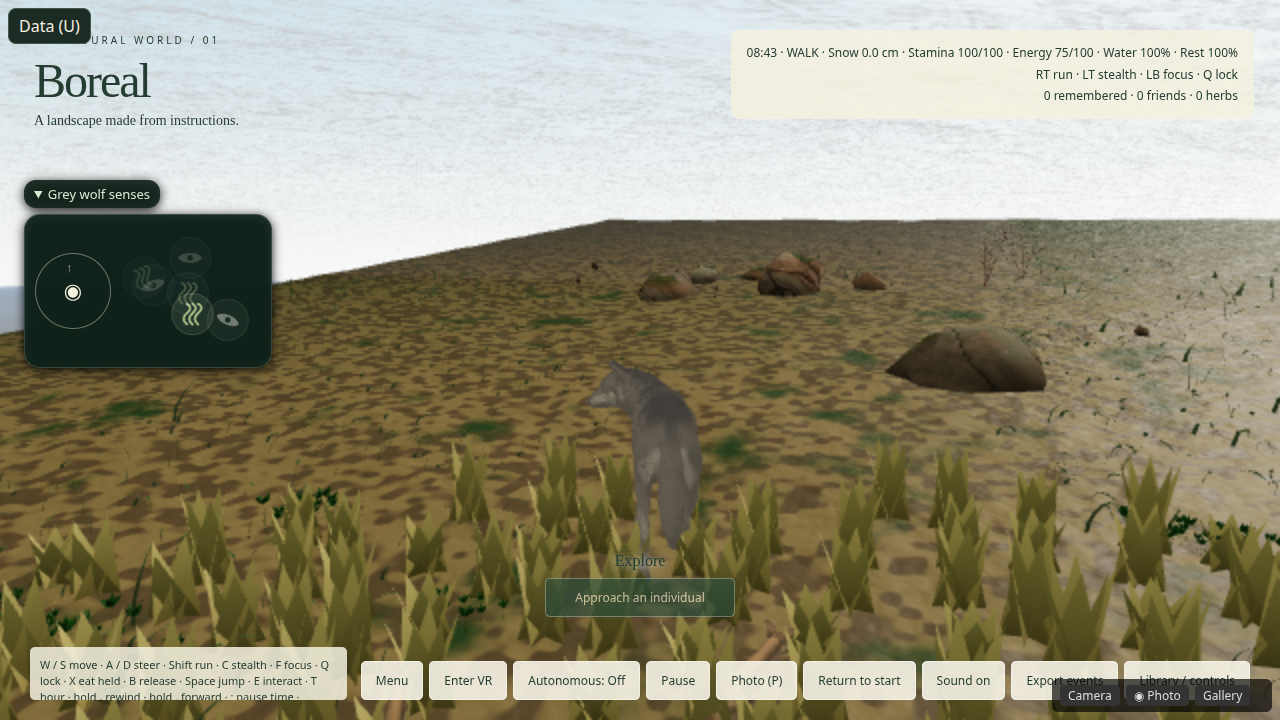
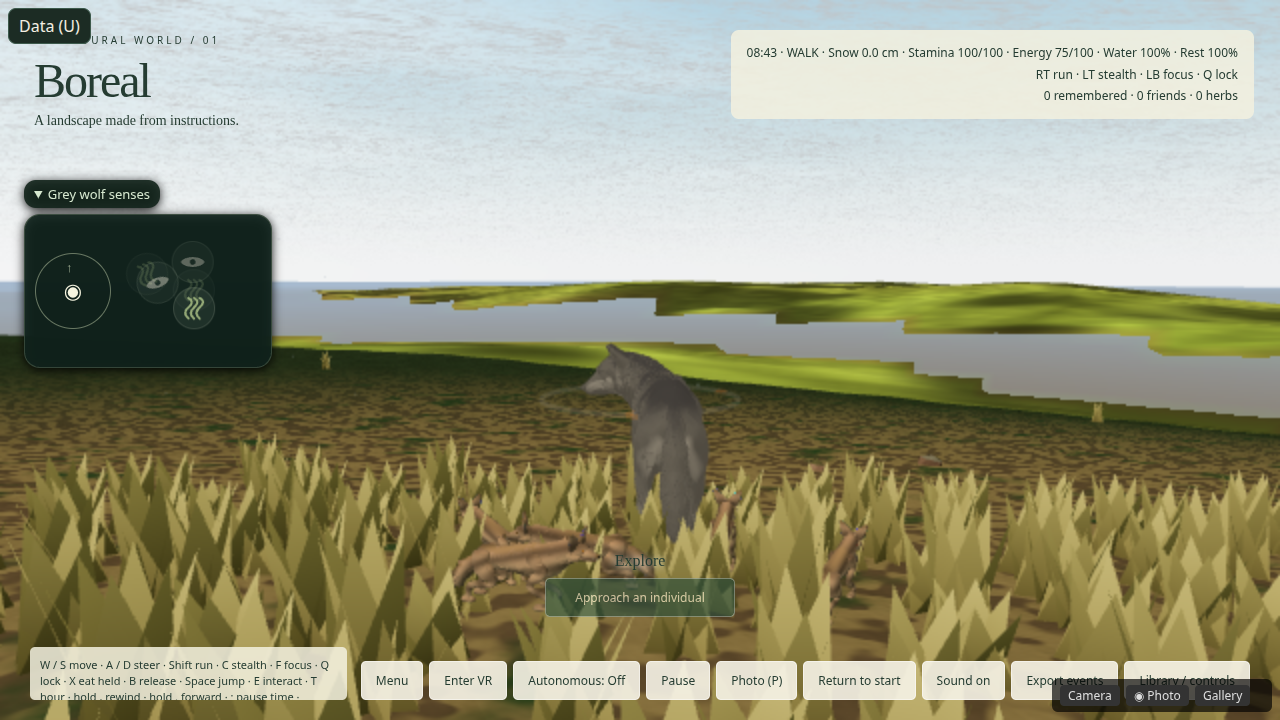
docs: re-shoot the standing prairie tufts (T-0202)
Same URL after merging main. The foreground is straw tufts and the spruce count is 0.

diff --git a/tasks/evidence/T-0202/README.md b/tasks/evidence/T-0202/README.md
@@ -11,6 +11,6 @@ Before is main `28fad190`. After is this branch.
 | `before-eye40.png` | Floating ground plates, a flat blue-grey horizon, a brown smear on the left, and spruce poles with leaf cards. No feather-grass tufts. |
 | `before-eye1.7.png` | Standing eye behind the wolf. Full spruce and a leafy pole, a grey water sheet, bare dirt with short sprouts, smooth tan pups. |
 | `after-eye40.png` | The poles and the teal sheet are gone. The floating plates, the flat blue horizon, and the brown smear are still there. Tufts are not readable at this height. Dark-green pixel count in the view (green well above red, red under 70) fell from 302 to 0. |
-| `after-eye1.7.png` | Straw tufts fill the foreground around the wolf. They read as knee-high clumps, not poles. No spruce. No water sheet. The same dark-green count fell from 1741 to 32. The ground past the tufts is still bare soil. The horizon is still a flat cut. |
+| `after-eye1.7.png` | Re-shot after the merge of main `28fad190`, same URL, standing eye, clock 08:43. Straw tufts fill the foreground (805 in the near field). No spruce. The wolf has turned since the previous after, so the far ridge is a different slice and a little blue shows at the right (about 4% of that window). The horizon is still a pale cut. |
 
-The 32 leftover dark-green pixels are not a tree. A spruce in the before frame is hundreds to thousands of those pixels.
+The spruce count is pixels with red under 70, green above red by 35, green above blue by 20, and green under 180. That scores 32 on the previous after and 0 on this re-shot. A spruce in the before frame is hundreds of those pixels.

diff --git a/tasks/handoffs/T-0202-grokbot-2.md b/tasks/handoffs/T-0202-grokbot-2.md
@@ -2,7 +2,7 @@
 
 ## Doing
 
-Prairie stems were still spruce after the cover-sample merge. Rebased onto main `28fad190` by merging it into `cursor/steppe-tufts-aef3`. Not claimed. No approve-plan from this agent.
+Prairie stems were still spruce after the cover-sample merge. Main `28fad190` is merged in `7c8c6b5`. The tuft edits already contained those cover-sample lines, so the merge does not change the tree. The standing frame was re-shot at the same URL. Not claimed. No approve-plan from this agent.
 
 ## Done
 
@@ -31,7 +31,7 @@ After 40 m (`after-eye40.png`): poles gone, water sheet gone. Plates, blue horiz
 
 Before 1.7 m (`before-eye1.7.png`): full spruce, leafy pole, water, dirt.
 
-After 1.7 m (`after-eye1.7.png`): straw tufts around the wolf. No spruce. No water sheet. Dark-green pixels 1741 → 32.
+After 1.7 m (`after-eye1.7.png`), re-shot at 08:43 on the merged tree: 805 straw tufts in the foreground. No spruce. The wolf has turned, so the far ridge is not the previous after. Spruce pixels (red under 70, green above red by 35 and above blue by 20, green under 180) score 0; the previous after scored 32.
 
 ## Next
 

diff --git a/tasks/handoffs/grokbot-2-loop.md b/tasks/handoffs/grokbot-2-loop.md
@@ -1,6 +1,6 @@
 # grokbot-2 loop — 2026-11-10 evening, tufts
 
-T-0202 `cursor/steppe-tufts-aef3`, merged onto main `28fad190`. The 1.7 m eye shows straw tufts and no spruce. The 40 m eye has no poles and no water sheet. Plates and the blue horizon remain (#428, #422). Not claimed. No approve-plan from this agent. Gait was not touched.
+T-0202 `cursor/steppe-tufts-aef3`, merge of main `28fad190` is `7c8c6b5`. The tree did not change in that merge. The standing eye was re-shot (`tasks/evidence/T-0202/after-eye1.7.png`): straw tufts, no spruce. The 40 m eye has no poles and no water sheet. Plates and the blue horizon remain. Not claimed. No approve-plan from this agent. Gait was not touched.
 
 # grokbot-2 loop — 2026-11-10 midday, cover sample
 
